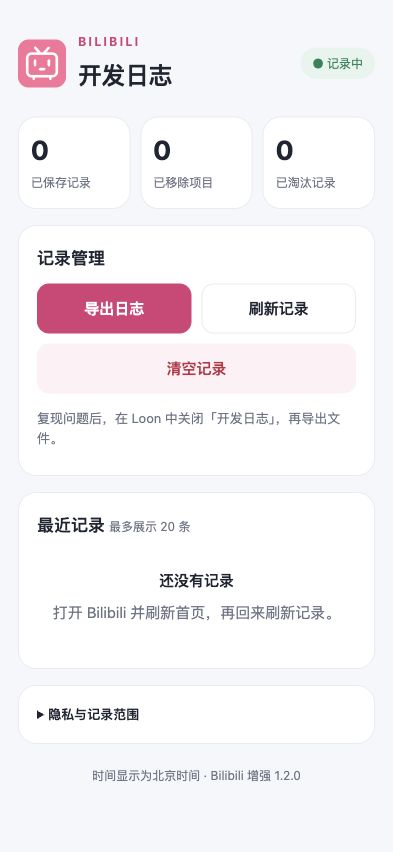
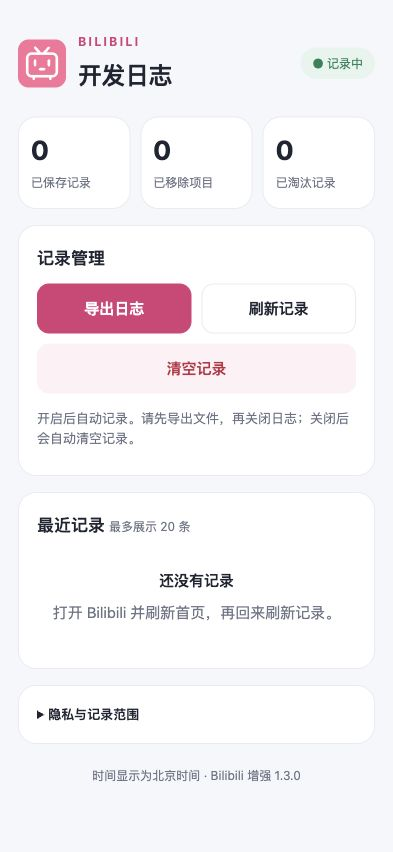
Automatically clear Bilibili development logs when disabled

Changed region(s): [[0.0916, 0.4577, 0.8855, 0.5188]]

diff --git a/plugins/Bilibili/BilibiliEnhance.js b/plugins/Bilibili/BilibiliEnhance.js
@@ -1,7 +1,7 @@
 /**
  * Bilibili 增强：Loon JSON 响应过滤与本地开发日志。
  * 作者：可莉唯一的狗、ChatGPT
- * 版本：1.2.0；更新时间：2026-10-07
+ * 版本：1.3.0；更新时间：2026-10-07
  * 只处理已登记的 JSON 接口；异常、未知结构与未发生修改的响应原样放行。
  */
 (function () {
@@ -120,6 +120,17 @@
       saveLogs(state);
     } catch (_) { /* 日志故障不得影响过滤，不输出异常内容。 */ }
   }
+  function syncLogging(config) {
+    if (config.log_enabled) return true;
+    try {
+      // 无需解析旧数据：关闭时也能清空损坏或旧版本留下的日志。
+      const raw = $persistentStore.read(LOG_KEY);
+      const empty = JSON.stringify({ events: [], evicted: 0 });
+      if (raw && raw !== empty && $persistentStore.write(empty, LOG_KEY) !== true) return false;
+      if ($persistentStore.read(NOTICE_KEY) === 'on') $persistentStore.write('off', NOTICE_KEY);
+      return true;
+    } catch (_) { return false; }
+  }
   function notifyLogging(config, manual = false) {
     try {
       const previous = $persistentStore.read(NOTICE_KEY);
@@ -144,9 +155,9 @@
       </style></head><body><main><header><div class="heading"><div class="brand-icon" aria-hidden="true"><svg xmlns="http://www.w3.org/2000/svg" viewBox="0 0 256 256"><rect width="256" height="256" rx="56" fill="#fb7299"/><g fill="none" stroke="#fff" stroke-width="14" stroke-linecap="round" stroke-linejoin="round"><path d="M92 44l22 24m50-24l-22 24"/><rect x="49" y="75" width="158" height="121" rx="24"/><path d="M91 112v25m74-25v25m-48 21h22M84 198v12m88-12v12"/></g></svg></div><div><p class="eyebrow">BILIBILI</p><h1>开发日志</h1></div></div><span class="status ${config.log_enabled ? 'on' : ''}">${config.log_enabled ? '● 记录中' : '已关闭'}</span></header>
       ${cleared ? '<div class="success" role="status">记录已清空。' + (config.log_enabled ? '日志仍在开启，新请求会继续记录。' : '日志保持关闭。') + '</div>' : ''}
       <section class="stats" aria-label="日志统计"><div class="stat"><strong>${state.events.length}</strong><span>已保存记录</span></div><div class="stat"><strong>${removed}</strong><span>已移除项目</span></div><div class="stat"><strong>${state.evicted}</strong><span>已淘汰记录</span></div></section>
-      <section class="panel"><h2>记录管理</h2><div class="actions"><a class="primary" href="/export" download="bilibili-development.log">导出日志</a><a href="/">刷新记录</a><form method="post" action="/clear"><button class="clear" type="submit">清空记录</button></form></div><p class="note">${config.log_enabled ? '复现问题后，在 Loon 中关闭「开发日志」，再导出文件。' : '在 Loon 插件参数中开启「开发日志」，即可开始记录。'}</p></section>
+      <section class="panel"><h2>记录管理</h2><div class="actions"><a class="primary" href="/export" download="bilibili-development.log">导出日志</a><a href="/">刷新记录</a><form method="post" action="/clear"><button class="clear" type="submit">清空记录</button></form></div><p class="note">${config.log_enabled ? '开启后自动记录。请先导出文件，再关闭日志；关闭后会自动清空记录。' : '日志已关闭，记录会自动清空。开启「开发日志」后刷新 B 站首页即可自动记录。'}</p></section>
       <section class="panel"><h2>最近记录 <small style="font-size:12px;color:var(--muted);font-weight:400">最多展示 20 条</small></h2>${rows || '<div class="empty"><strong>还没有记录</strong><p>' + (config.log_enabled ? '打开 Bilibili 并刷新首页，再回来刷新记录。' : '开启日志后，打开 Bilibili 并刷新首页。') + '</p></div>'}</section>
-      <section class="panel"><details><summary>隐私与记录范围</summary><p>记录仅保存在本机，最多保留 300 条。只保存接口类别、处理结果、数量和白名单结构类型，不保存令牌、Cookie、查询参数、标题、UID 或原始正文。</p><p>仅记录可被 Loon 解密的 app.bilibili.com 响应；二进制接口只记元数据。并发请求可能丢失部分记录。</p></details></section><footer>时间显示为北京时间 · Bilibili 增强 1.2.0</footer></main></body></html>`;
+      <section class="panel"><details><summary>隐私与记录范围</summary><p>记录仅保存在本机，最多保留 300 条。只保存接口类别、处理结果、数量和白名单结构类型，不保存令牌、Cookie、查询参数、标题、UID 或原始正文。</p><p>仅记录可被 Loon 解密的 app.bilibili.com 响应；二进制接口只记元数据。并发请求可能丢失部分记录。</p></details></section><footer>时间显示为北京时间 · Bilibili 增强 1.3.0</footer></main></body></html>`;
   }
   function localPage(request, local, config) {
     function respond(status, type, body, extra = {}) {
@@ -157,6 +168,7 @@
       }, extra), body } });
     }
     try {
+      if (!syncLogging(config)) throw new Error('storage');
       const path = (local[1] || '/').split('?')[0];
       const method = request.method || 'GET';
       if (path === '/clear') {
@@ -192,6 +204,7 @@
     const response = typeof $response === 'object' && $response;
     config = options(typeof $argument === 'undefined' ? null : $argument);
     if (!request) {
+      syncLogging(config);
       const manual = typeof $script === 'object' && $script && $script.name === 'Bilibili 打开日志页';
       notifyLogging(config, manual);
       return $done({});
@@ -204,6 +217,7 @@
     const route = match && paths[match[1]];
     const status = Number(response.statusCode || response.status || 200);
     if (!match) return $done({});
+    syncLogging(config);
     notifyLogging(config);
     if (config.log_enabled) event = {
       time: new Date().toISOString(), endpoint: (route || rpcPaths.includes(match[1])) ? match[1] : 'other_api',
